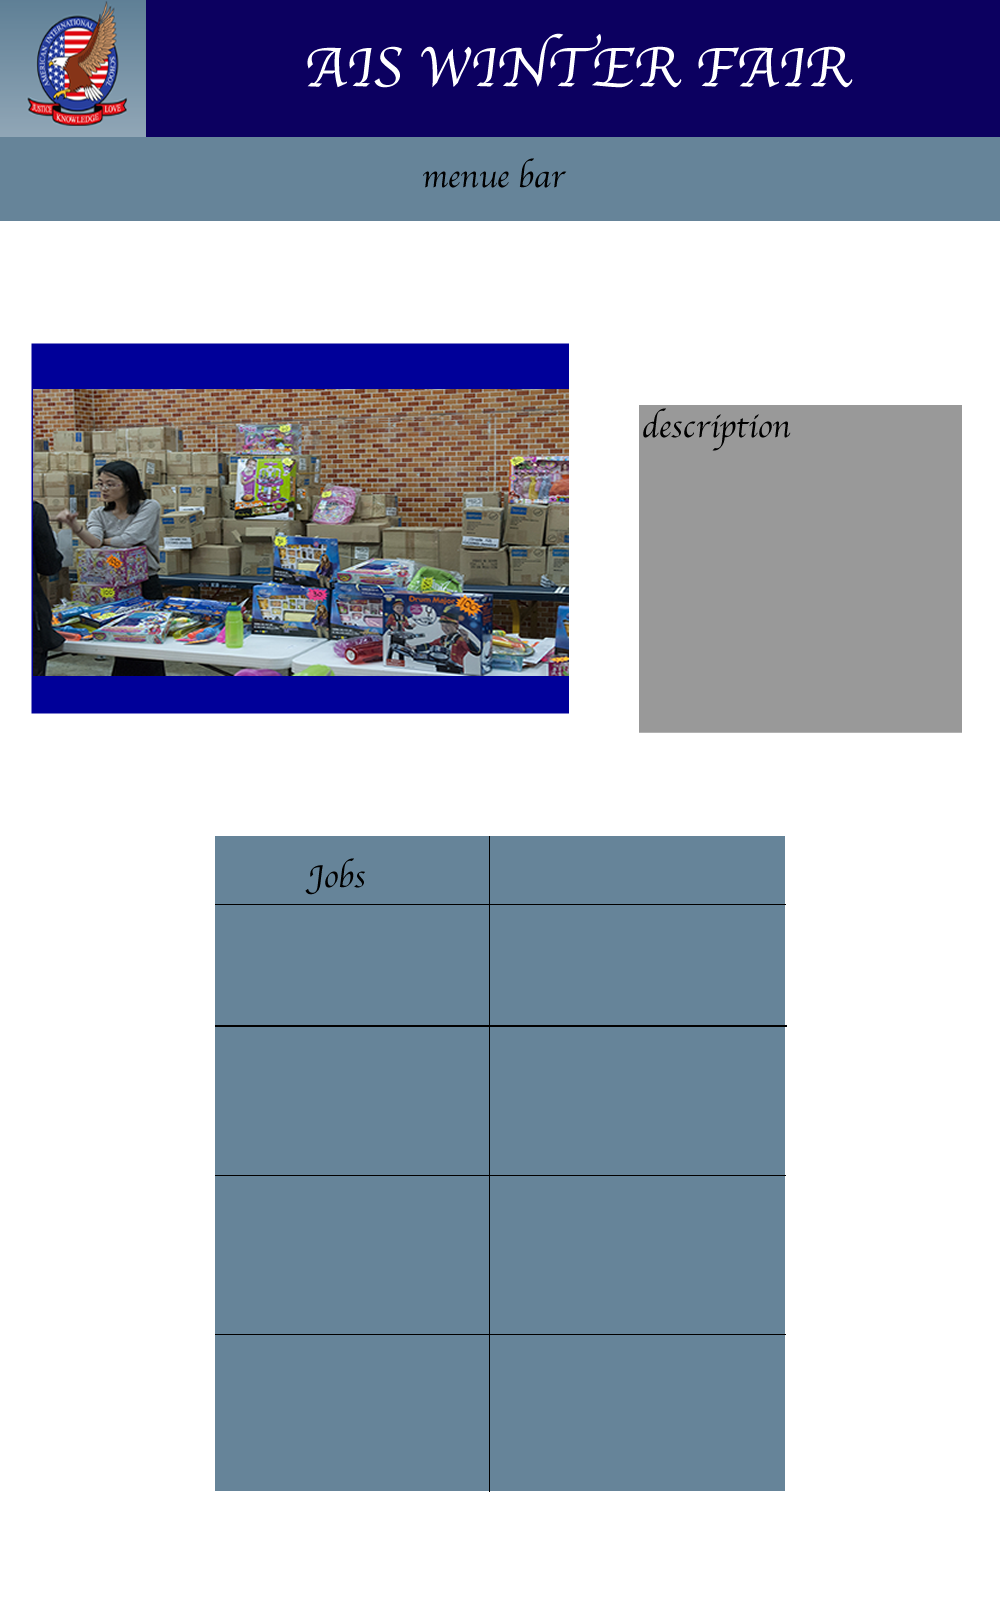
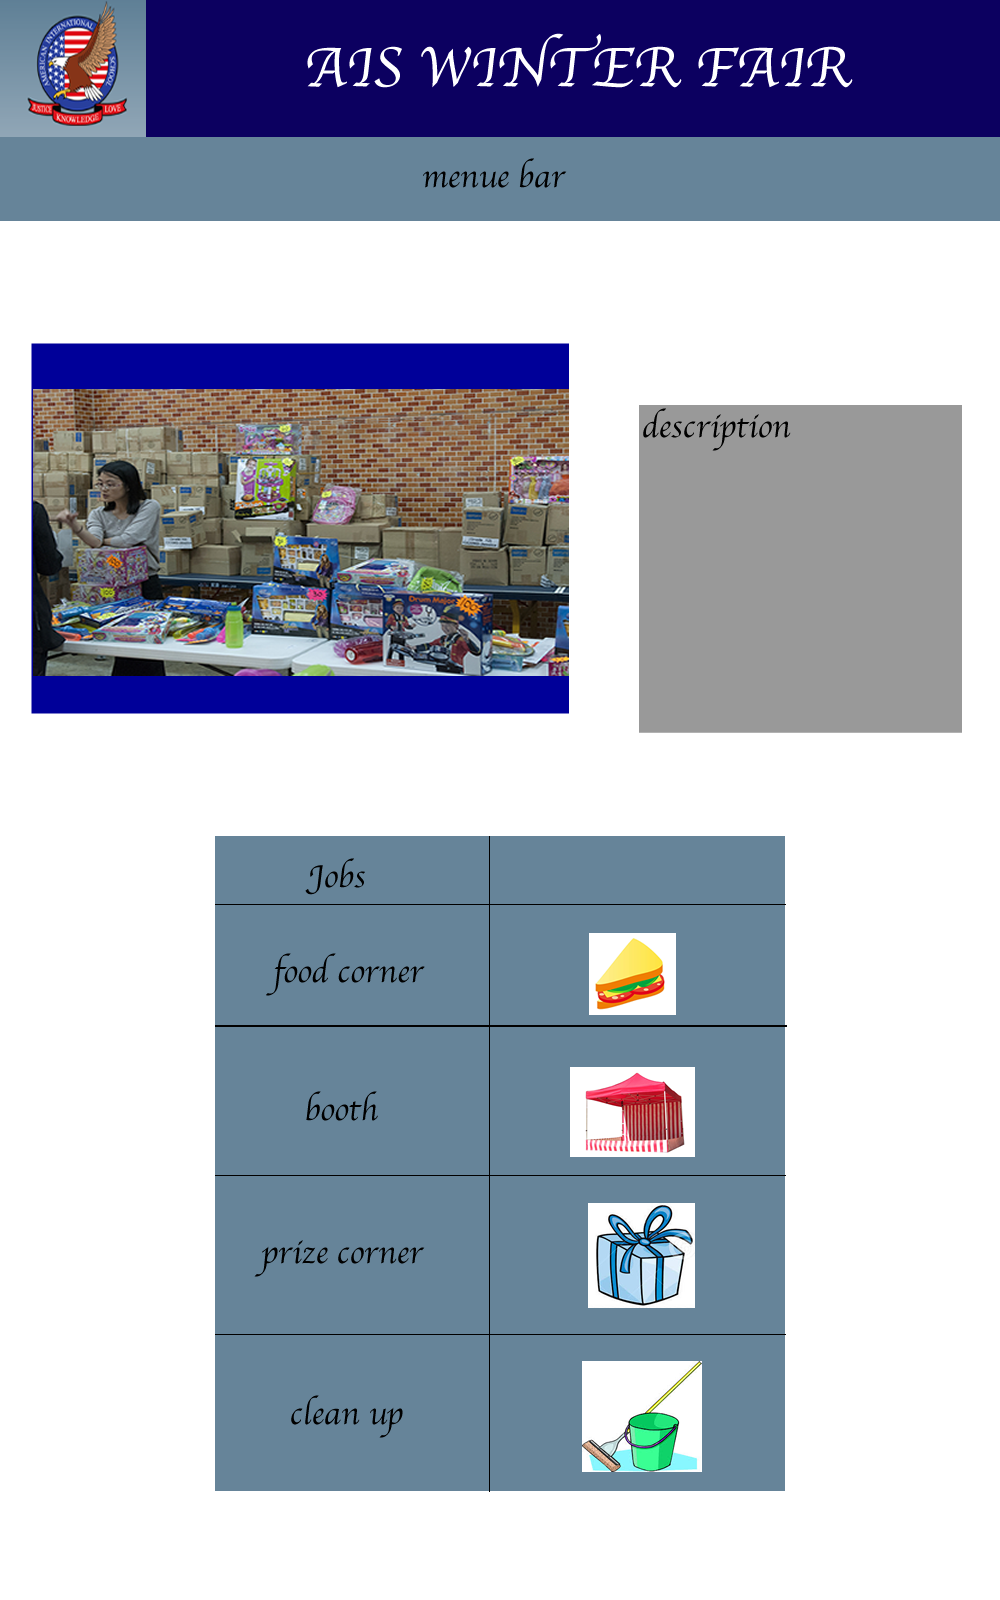
updated

diff --git a/newhomepage.html b/newhomepage.html
@@ -1,0 +1,256 @@
+<!DOCTYPE html PUBLIC "-//W3C//DTD XHTML 1.0 Transitional//EN" "http://www.w3.org/TR/xhtml1/DTD/xhtml1-transitional.dtd">
+<html xmlns="http://www.w3.org/1999/xhtml">
+<head>
+<meta http-equiv="Content-Type" content="text/html; charset=UTF-8" />
+<title>Untitled Document</title>
+<style type="text/css">
+#apDiv1 {
+	position:absolute;
+	left:-8px;
+	top:-6px;
+	width:125px;
+	height:81px;
+	z-index:1;
+}
+#apDiv2 {
+	position:absolute;
+	left:45px;
+	top:191px;
+	width:3423px;
+	height:112px;
+	z-index:2;
+}
+#apDiv3 {
+	position:absolute;
+	left:116px;
+	top:1px;
+	width:902px;
+	height:74px;
+	z-index:2;
+	visibility: visible;
+}
+#apDiv4 {
+	position:absolute;
+	left:1px;
+	top:74px;
+	width:1020px;
+	height:47px;
+	z-index:3;
+}
+#apDiv3 {
+	background-color: #13005E;
+	font-style: italic;
+}
+.menuebar {
+	background-color: #678498;
+}
+#apDiv4 {
+	background-color: #678498;
+}
+#apDiv5 {
+	position:absolute;
+	left:22px;
+	top:220px;
+	width:523px;
+	height:300px;
+	z-index:4;
+}
+#apDiv6 {
+	position:absolute;
+	left:659px;
+	top:280px;
+	width:277px;
+	height:218px;
+	z-index:5;
+}
+#apDiv7 {
+	position:absolute;
+	left:276px;
+	top:573px;
+	width:401px;
+	height:569px;
+	z-index:6;
+}
+#apDiv8 {
+	position:absolute;
+	left:277px;
+	top:573px;
+	width:400px;
+	height:73px;
+	z-index:7;
+}
+#apDiv9 {
+	position:absolute;
+	left:476px;
+	top:574px;
+	width:202px;
+	height:569px;
+	z-index:8;
+}
+#apDiv6 {
+	background-color: #989898;
+}
+#apDiv8 {
+	background-color: #688497;
+}
+#apDiv9 {
+	background-color: #678498;
+}
+#apDiv7 {
+	background-color: #688599;
+}
+#apDiv10 {
+	position:absolute;
+	left:277px;
+	top:573px;
+	width:400px;
+	height:58px;
+	z-index:9;
+}
+#apDiv11 {
+	position:absolute;
+	left:276px;
+	top:631px;
+	width:401px;
+	height:139px;
+	z-index:10;
+}
+#apDiv12 {
+	position:absolute;
+	left:277px;
+	top:771px;
+	width:401px;
+	height:141px;
+	z-index:11;
+}
+#apDiv13 {
+	position:absolute;
+	left:278px;
+	top:911px;
+	width:399px;
+	height:141px;
+	z-index:12;
+}
+#apDiv3 {
+	color: #FFF;
+}
+#apDiv3 {
+	text-align: center;
+	font-size: 36px;
+}
+#apDiv10 {
+	text-align: left;
+}
+#apDiv14 {
+	position:absolute;
+	left:277px;
+	top:574px;
+	width:199px;
+	height:54px;
+	z-index:9;
+}
+#apDiv15 {
+	position:absolute;
+	left:476px;
+	top:575px;
+	width:202px;
+	height:53px;
+	z-index:10;
+}
+#apDiv14 {
+	text-align: center;
+}
+#apDiv14 p {
+	font-size: 24px;
+}
+#apDiv16 {
+	position:absolute;
+	left:275px;
+	top:628px;
+	width:200px;
+	height:125px;
+	z-index:11;
+}
+#apDiv17 {
+	position:absolute;
+	left:276px;
+	top:754px;
+	width:200px;
+	height:146px;
+	z-index:12;
+}
+#apDiv18 {
+	position:absolute;
+	left:276px;
+	top:901px;
+	width:198px;
+	height:133px;
+	z-index:13;
+}
+#apDiv19 {
+	position:absolute;
+	left:275px;
+	top:1034px;
+	width:200px;
+	height:105px;
+	z-index:14;
+}
+#apDiv20 {
+	position:absolute;
+	left:475px;
+	top:753px;
+	width:203px;
+	height:147px;
+	z-index:15;
+}
+#apDiv21 {
+	position:absolute;
+	left:476px;
+	top:902px;
+	width:201px;
+	height:131px;
+	z-index:16;
+}
+#apDiv22 {
+	position:absolute;
+	left:474px;
+	top:1034px;
+	width:204px;
+	height:110px;
+	z-index:17;
+}
+#apDiv16 {
+	text-align: center;
+}
+#apDiv16 p {
+	font-size: 18px;
+}
+</style>
+</head>
+
+<body>
+<div id="apDiv16">
+  <p>&nbsp;</p>
+  <p>Food Corner</p>
+  <p>&nbsp;</p>
+</div>
+<div id="apDiv17"></div>
+<div id="apDiv18"></div>
+<div id="apDiv19"></div>
+<div id="apDiv20"></div>
+<div id="apDiv21"></div>
+<div id="apDiv22"></div>
+J
+<div id="apDiv1"><img src="Screen Shot 2015-01-12 at 2.54.41 PM.png" width="123" height="86" /></div>
+<div id="apDiv3">AIS WINTER FAIR</div>
+<div id="apDiv4"></div>
+<div id="apDiv5"></div>
+<div id="apDiv6"></div>
+<div id="apDiv7"></div>
+<div id="apDiv9"></div>
+<div id="apDiv14">
+  <p>Jobs</p>
+</div>
+<div id="apDiv15"></div>
+</body>
+</html>
